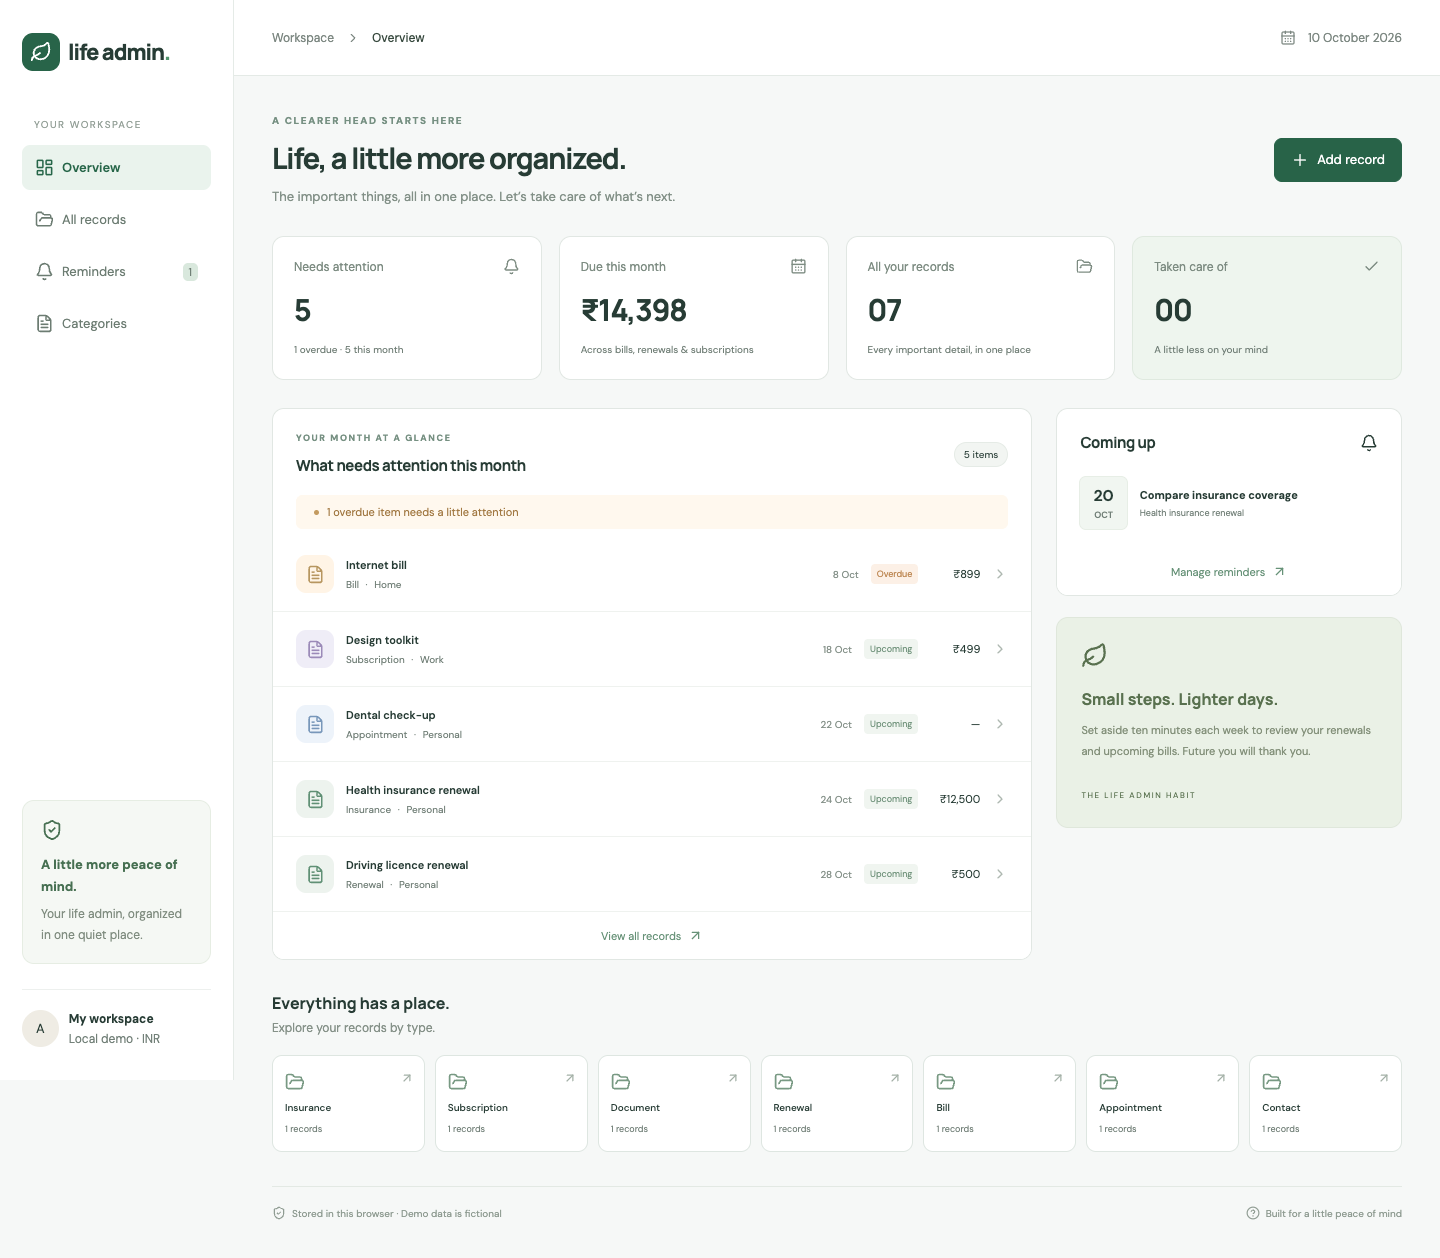
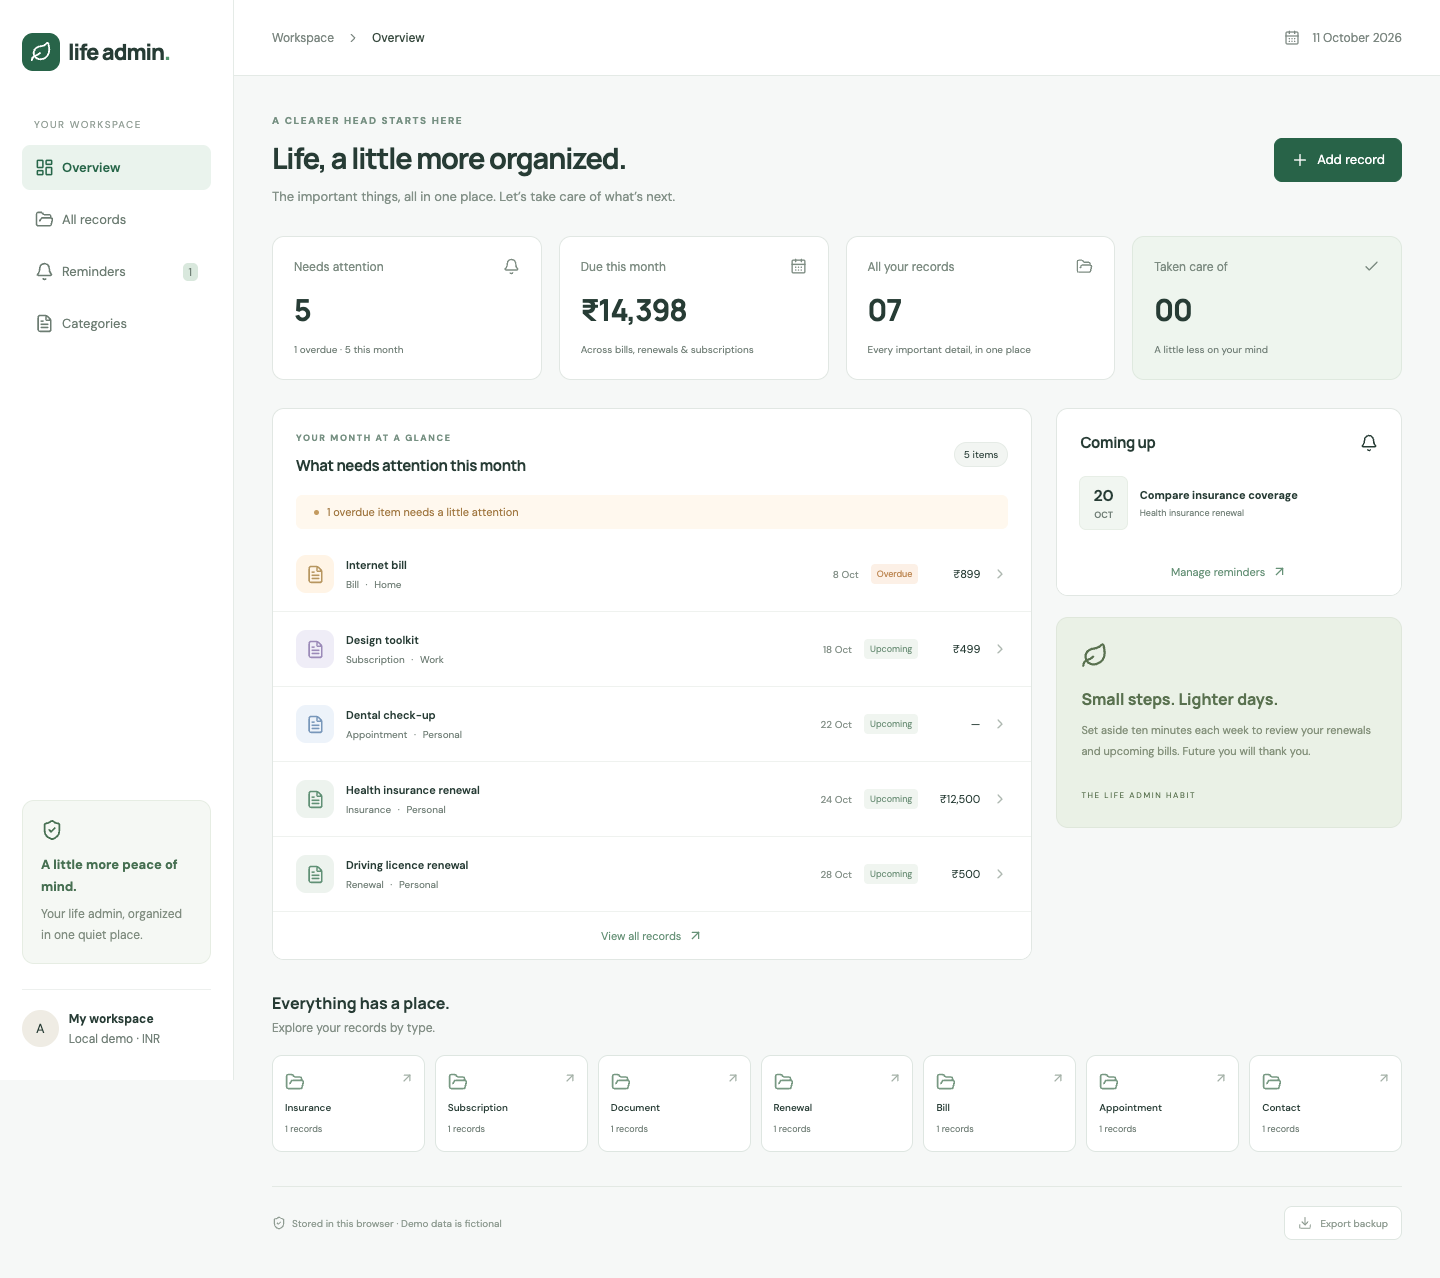
feat: export portable backups including attachment bytes

diff --git a/tests/browser/app.spec.ts b/tests/browser/app.spec.ts
@@ -13,13 +13,11 @@ test("record CRUD, attachment persistence and categories", async ({ page }) => {
     .getByRole("button")
     .filter({ hasText: "Test utility bill" })
     .click();
-  await page
-    .getByLabel("Attach a file")
-    .setInputFiles({
-      name: "sample.txt",
-      mimeType: "text/plain",
-      buffer: Buffer.from("demo attachment"),
-    });
+  await page.getByLabel("Attach a file").setInputFiles({
+    name: "sample.txt",
+    mimeType: "text/plain",
+    buffer: Buffer.from("demo attachment"),
+  });
   await expect(page.getByLabel("Attachment name")).toHaveValue("sample.txt");
   await page.getByRole("button", { name: "Add reminder", exact: true }).click();
   await expect(page.getByLabel("Reminder title")).toHaveValue(
@@ -68,10 +66,45 @@ test("desktop screenshot", async ({ page }) => {
   await page.screenshot({ path: "docs/dashboard.png", fullPage: true });
 });
 
-test('dashboard refreshes its calendar day without reloading', async ({page}) => {
-  await page.clock.install({time:new Date('2026-10-10T23:59:30')});
-  await page.goto('/');
-  await expect(page.locator('header')).toContainText('10 October 2026');
+test("dashboard refreshes its calendar day without reloading", async ({
+  page,
+}) => {
+  await page.clock.install({ time: new Date("2026-10-10T23:59:30") });
+  await page.goto("/");
+  await expect(page.locator("header")).toContainText("10 October 2026");
   await page.clock.fastForward(61000);
-  await expect(page.locator('header')).toContainText('11 October 2026');
+  await expect(page.locator("header")).toContainText("11 October 2026");
+});
+
+test("downloaded backup contains saved attachment bytes", async ({ page }) => {
+  await page.goto("/");
+  await page.getByRole("button", { name: "All records", exact: true }).click();
+  await page.getByRole("button").filter({ hasText: "Passport copy" }).click();
+  await page
+    .getByLabel("Attach a file")
+    .setInputFiles({
+      name: "backup-demo.txt",
+      mimeType: "text/plain",
+      buffer: Buffer.from("portable attachment"),
+    });
+  await expect(page.getByLabel("Attachment name")).toHaveValue(
+    "backup-demo.txt",
+  );
+  await page.getByRole("button", { name: "Close details" }).click();
+  const downloadEvent = page.waitForEvent("download");
+  await page.getByRole("button", { name: "Export backup" }).click();
+  const download = await downloadEvent;
+  expect(download.suggestedFilename()).toMatch(
+    /^life-admin-backup-\d{4}-\d{2}-\d{2}\.json$/,
+  );
+  const stream = await download.createReadStream();
+  const chunks: Buffer[] = [];
+  for await (const chunk of stream!) chunks.push(Buffer.from(chunk));
+  const backup = JSON.parse(Buffer.concat(chunks).toString());
+  expect(backup.version).toBe(1);
+  expect(backup.data.records).toHaveLength(7);
+  expect(
+    Buffer.from(backup.data.attachments[0].base64, "base64").toString(),
+  ).toBe("portable attachment");
+  await expect(page.getByRole("status")).toContainText("Backup downloaded");
 });

diff --git a/src/App.tsx b/src/App.tsx
@@ -5,7 +5,6 @@ import {
   CalendarDays,
   Check,
   ChevronRight,
-  CircleHelp,
   FileText,
   FolderOpen,
   LayoutDashboard,
@@ -29,6 +28,7 @@ import {
   type RecordItem,
 } from "./domain";
 import { load, save } from "./storage";
+import { exportBackup } from "./backup";
 import "./App.css";
 const blank = (): RecordItem => ({
   id: crypto.randomUUID(),
@@ -47,6 +47,7 @@ function App() {
     const timer = window.setInterval(() => setToday(localDate()), 60000);
     return () => window.clearInterval(timer);
   }, []);
+  const [exporting, setExporting] = useState(false);
   const [data, setData] = useState<Data | null>(null),
     [error, setError] = useState(""),
     [busy, setBusy] = useState(false),
@@ -576,9 +577,36 @@ function App() {
               <ShieldCheck size={14} /> Stored in this browser · Demo data is
               fictional
             </span>
-            <span>
-              <CircleHelp size={14} /> Built for a little peace of mind
-            </span>
+            <button
+              disabled={busy || exporting}
+              onClick={async () => {
+                setExporting(true);
+                setError("");
+                try {
+                  const json = await exportBackup(data);
+                  const url = URL.createObjectURL(
+                    new Blob([json], { type: "application/json" }),
+                  );
+                  const link = document.createElement("a");
+                  link.href = url;
+                  link.download = `life-admin-backup-${today}.json`;
+                  link.click();
+                  setTimeout(() => URL.revokeObjectURL(url), 1000);
+                  setNotice(
+                    "Backup downloaded, including attachments. Keep this unencrypted file somewhere safe. Restore support is coming next.",
+                  );
+                } catch {
+                  setError(
+                    "Could not export your backup. Your saved records are unchanged.",
+                  );
+                } finally {
+                  setExporting(false);
+                }
+              }}
+            >
+              <Download size={14} />
+              {exporting ? "Preparing backup…" : "Export backup"}
+            </button>
           </footer>
         </main>
       </div>

diff --git a/tests/backup.test.ts b/tests/backup.test.ts
@@ -1,0 +1,59 @@
+import { describe, it, expect } from "vitest";
+import { exportBackup, type BackupV1 } from "../src/backup";
+import { seed } from "../src/domain";
+
+describe("portable backup export", () => {
+  it("includes records, reminders and categories with an explicit format version", async () => {
+    const data = seed();
+    const json: BackupV1 = JSON.parse(
+      await exportBackup(data, new Date("2026-10-11T00:00:00Z")),
+    );
+    expect(json.format).toBe("life-admin-backup");
+    expect(json.version).toBe(1);
+    expect(json.exportedAt).toBe("2026-10-11T00:00:00.000Z");
+    expect(json.data).toEqual(data);
+  });
+  it("preserves every byte and metadata of a large binary attachment without mutating data", async () => {
+    const data = seed();
+    const bytes = Uint8Array.from({ length: 100000 }, (_, i) => i % 256);
+    data.attachments.push({
+      id: "file-1",
+      recordId: data.records[0].id,
+      name: "Résumé.png",
+      blob: new Blob([bytes], { type: "image/png" }),
+    });
+    const backup: BackupV1 = JSON.parse(await exportBackup(data));
+    const file = backup.data.attachments[0];
+    expect(file).toMatchObject({
+      id: "file-1",
+      recordId: data.records[0].id,
+      name: "Résumé.png",
+      mimeType: "image/png",
+      size: bytes.length,
+    });
+    expect(Uint8Array.from(atob(file.base64), (c) => c.charCodeAt(0))).toEqual(
+      bytes,
+    );
+    expect(data.attachments[0].blob).toBeInstanceOf(Blob);
+  });
+  it("handles empty attachments and an empty workspace", async () => {
+    const data = seed();
+    data.attachments.push({
+      id: "empty",
+      recordId: data.records[0].id,
+      name: "empty.txt",
+      blob: new Blob([], { type: "text/plain" }),
+    });
+    const backup: BackupV1 = JSON.parse(await exportBackup(data));
+    expect(backup.data.attachments[0].base64).toBe("");
+    const empty: BackupV1 = JSON.parse(
+      await exportBackup({
+        records: [],
+        categories: ["Personal"],
+        reminders: [],
+        attachments: [],
+      }),
+    );
+    expect(empty.data.records).toEqual([]);
+  });
+});

diff --git a/src/backup.ts b/src/backup.ts
@@ -1,0 +1,55 @@
+import type { Data } from "./domain";
+
+/** A portable snapshot. Attachment bytes are base64, never temporary blob URLs. */
+export type BackupV1 = {
+  format: "life-admin-backup";
+  version: 1;
+  exportedAt: string;
+  data: Omit<Data, "attachments"> & {
+    attachments: {
+      id: string;
+      recordId: string;
+      name: string;
+      mimeType: string;
+      size: number;
+      base64: string;
+    }[];
+  };
+};
+
+async function encode(blob: Blob): Promise<string> {
+  const bytes = new Uint8Array(await blob.arrayBuffer());
+  // Chunk conversion avoids exceeding function argument limits on larger files.
+  let binary = "";
+  for (let offset = 0; offset < bytes.length; offset += 8192) {
+    binary += String.fromCharCode(...bytes.subarray(offset, offset + 8192));
+  }
+  return btoa(binary);
+}
+
+export async function exportBackup(
+  data: Data,
+  now = new Date(),
+): Promise<string> {
+  const backup: BackupV1 = {
+    format: "life-admin-backup",
+    version: 1,
+    exportedAt: now.toISOString(),
+    data: {
+      records: data.records,
+      categories: data.categories,
+      reminders: data.reminders,
+      attachments: await Promise.all(
+        data.attachments.map(async (attachment) => ({
+          id: attachment.id,
+          recordId: attachment.recordId,
+          name: attachment.name,
+          mimeType: attachment.blob.type,
+          size: attachment.blob.size,
+          base64: await encode(attachment.blob),
+        })),
+      ),
+    },
+  };
+  return JSON.stringify(backup, null, 2);
+}

diff --git a/README.md b/README.md
@@ -12,6 +12,7 @@
 - Add, rename and delete categories. Renaming updates associated records; nonempty categories cannot be deleted.
 - Create, edit, complete and delete reminders linked to records.
 - Upload, rename, download and delete attachments (PDF, PNG, JPEG and text; 5 MB each).
+- Export a versioned JSON backup containing all records, categories, reminders and base64-encoded attachment bytes. The backup is unencrypted; keep it somewhere safe. Restore is planned next.
 - Records, reminders and attachment blobs persist in IndexedDB across page reloads. Deleting a record also deletes its linked reminders and files.
 - Responsive UI, labelled forms, input constraints and schema validation, with fictional demo data relative to the current month.
 
@@ -41,6 +42,7 @@ React + TypeScript, Vite, Zod, IndexedDB via `idb`, Lucide icons, Vitest and Pla
 ```text
 src/domain.ts       Data types, validation, date calculations, demo data
 src/storage.ts      IndexedDB persistence
+src/backup.ts       Versioned backup export with portable attachment bytes
 src/App.tsx         Dashboard, record editor and management views
 src/App.css         Responsive layouts and component styles
 src/index.css       Typography and global styles
@@ -54,7 +56,7 @@ The app saves a single snapshot transactionally. UI state updates only after the
 
 This is a **browser-local portfolio MVP**, not a production document vault or financial service. There is no backend, authentication, encryption, cross-device sync, email/push notification delivery, payment processing or automatic recurring billing. Reminders are visible only inside the app. Amounts use INR; contacts have a simple free-text detail field.
 
-Data belongs to this browser and origin. Clearing site data removes it. Use fictional/demo information: backups, migrations and multi-tab conflict handling are planned, not yet available. File checks are client-side convenience checks, not a malware scanner. Downloaded attachments are not rendered as HTML. Google Fonts is the only external UI resource; system fonts are used if it is unavailable.
+Data belongs to this browser and origin. Clearing site data removes it. Use fictional/demo information: backup export is available, while restore, migrations and multi-tab conflict handling are planned, not yet available. File checks are client-side convenience checks, not a malware scanner. Downloaded attachments are not rendered as HTML. Google Fonts is the only external UI resource; system fonts are used if it is unavailable.
 
 ## Seven-day development plan
 

diff --git a/docs/PROGRESS.md b/docs/PROGRESS.md
@@ -7,3 +7,9 @@ Implemented a responsive React + TypeScript MVP with a monthly attention dashboa
 Verification and commit evidence are recorded in the repository history and CI. Remaining planned work: backup/restore, recurring records, calendar navigation, stronger dialog accessibility, migration and multi-tab handling, release polish. Do not mark these done without implementing and testing them.
 
 Local verification: 4 domain/storage tests and 3 browser tests passed; production build succeeded. Desktop and 390px mobile screenshots reviewed. Repository published at https://github.com/Aditya030207/life-admin-dashboard. Scheduled heartbeat created for the six IST work windows through October 16.
+
+## October 11, 2026 — day 2, backup export
+
+Added an Export backup action that downloads a version 1 JSON snapshot containing records, categories, reminders and all attachment bytes. Files retain their identifiers, names, MIME types and sizes; base64 conversion is chunked to support larger binary attachments. The UI explains that the download is unencrypted and that restore support is still pending. Export does not change stored data.
+
+Added tests for metadata, empty files/workspaces and exact preservation of 100,000 binary bytes, plus a browser test that downloads a backup and verifies its attachment content. Remaining day-two work: validated import, relational integrity checks, confirmation before replacing data, and restore round-trip tests.
